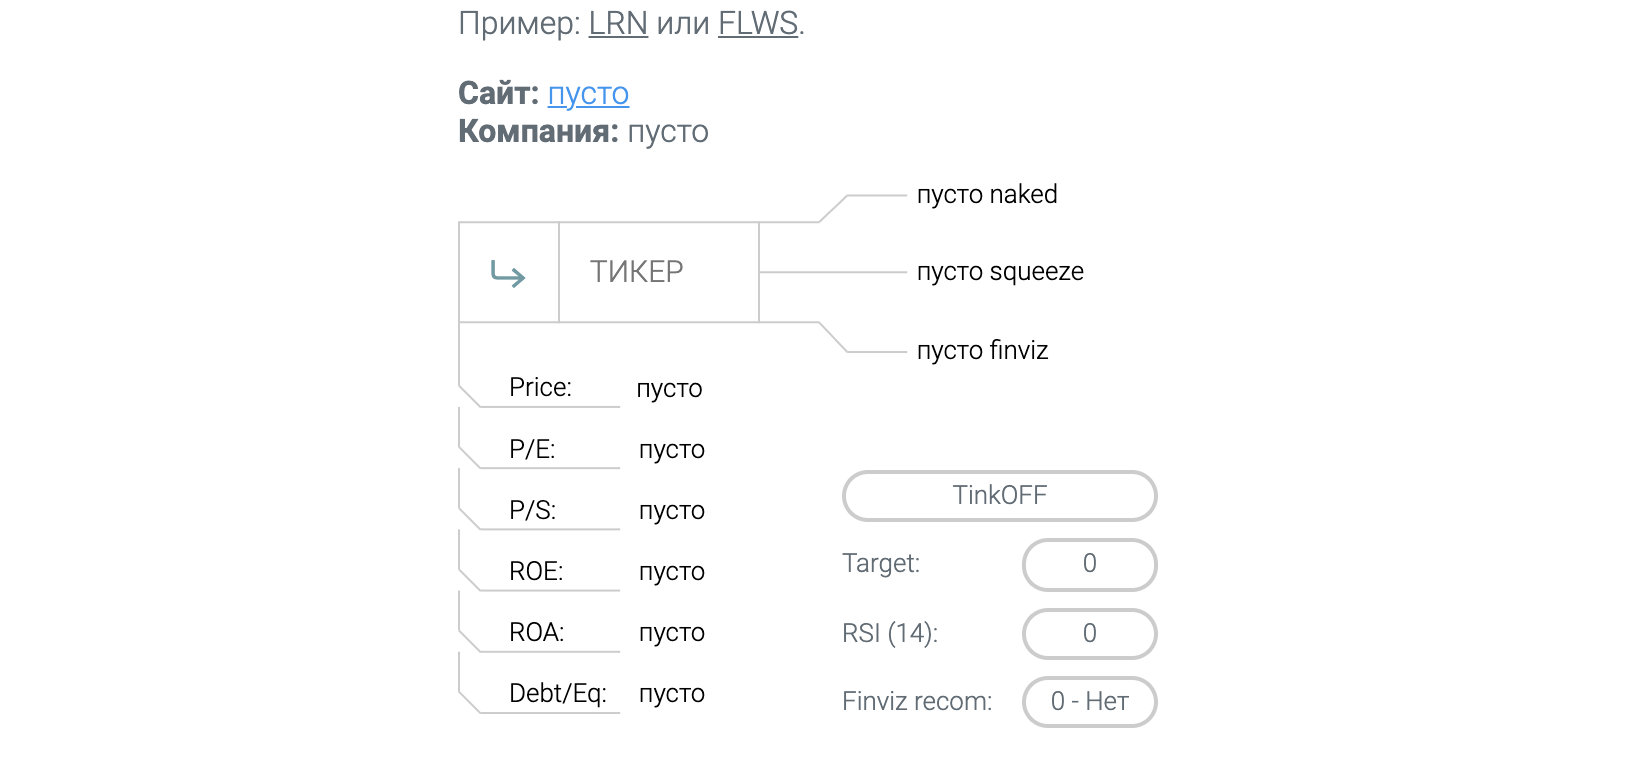
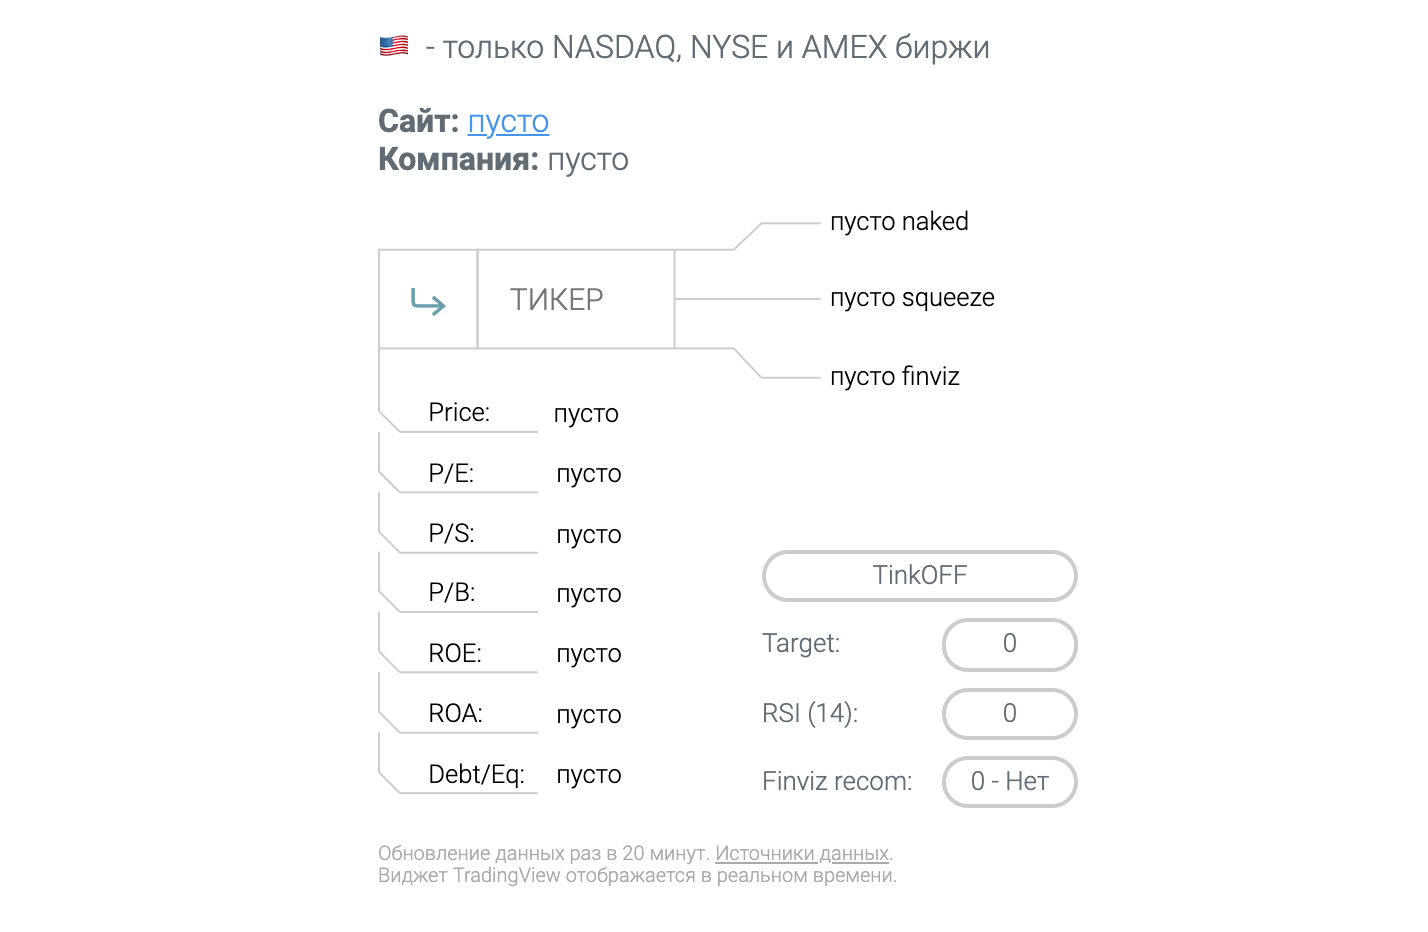
Правка описаний

diff --git a/public/index.html b/public/index.html
@@ -20,6 +20,7 @@
                 <br><a href="https://github.com/samgozman/short-fork/tree/main/doc/HOWTOUSE.md"
                     target="_blank">Инструкция по работе с приложением</a><br>
             </p>
+            <p>🇺🇸 - только NASDAQ, NYSE и AMEX биржи</p>
             <p>
                 <strong>Сайт: </strong><a id="resp_site" href="" target="_blank"></a> <br>
                 <strong>Компания: </strong><span id="resp_name"></span>
@@ -124,9 +125,9 @@
         <p class="upd-message">
             Обновление данных раз в 20 минут.
             <a href="https://github.com/samgozman/short-fork/blob/main/doc/HOWTOUSE.md#источники-данных"
-                target="_blank">Источники данных</a>
+                target="_blank">Источники данных</a>.
             <br>
-            TradingView отображается в реальном времени.
+            Виджет TradingView отображается в реальном времени.
         </p>
         <div class="row tradingview h0">
             <iframe src="" frameborder="0" id="iframe"></iframe>
@@ -146,6 +147,7 @@
                 <li>SF - общий % акций в шорте</li>
                 <li>P/E - отношение цены к прибыли</li>
                 <li>P/S - отношение цены к выручке</li>
+                <li>P/B - отношение цены к балансовой стоимости</li>
                 <li>ROE - отдача от капитала</li>
                 <li>ROA - отдача от всех активов</li>
                 <li>Debt/eq - отношение долгов к капиталу</li>

diff --git a/doc/HOWTOUSE.md b/doc/HOWTOUSE.md
@@ -14,6 +14,7 @@
 * **SF** - Short Float % - общий % акций в шорте
 * **P/E** - отношение цены к прибыли
 * **P/S** - отношение цены к выручке
+* **P/B** - отношение цены к балансовой стоимости
 * **ROE** - отдача от капитала
 * **ROA** - отдача от всех активов
 * **Debt/eq** - отношение долгов к капиталу
